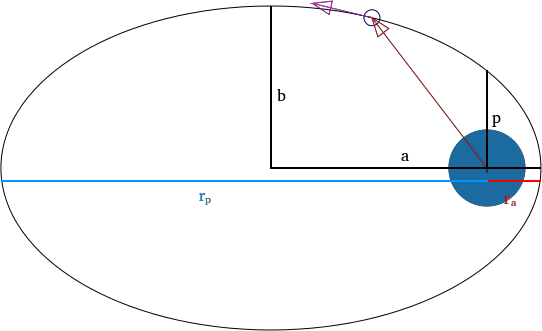
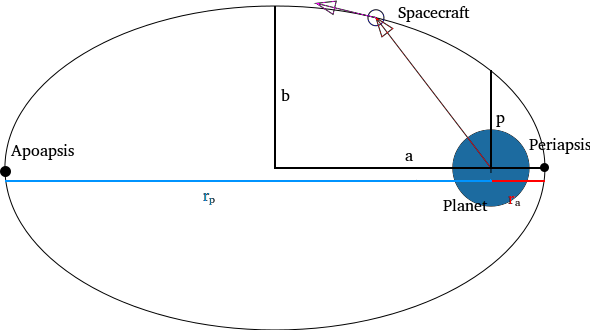
Editted

diff --git a/posts/016-orbital_mechanics_101_keplerian_orbits.md b/posts/016-orbital_mechanics_101_keplerian_orbits.md
@@ -3,16 +3,20 @@ published: no
 mathjax: yes
 orbitjs: yes
 
-Orbital mechanics. That thing that Kerbal Space Program does in the background when you put on the Mun. While it is [a lot of fun][ksp-blog-ref] to fool around with in games, how does it actually work? With this post, we will take a look at the basics on Keplerian orbits and gain some insights on how KSP and real life, really works.
+So at this point, you've at least heard of [Kerbal Space Program][ksp]. Kerbal Space Program is that realistic space sim game that your friends(or you!) have sinked hundreds of hours into, building space stations, satellites, and robots. It successfully made a highly mathematical field of study, orbital mechanics, accessible to almost anyone willing to sink a couple of hours into watching [Scott Manley][scott-manley] videos.
 
-The objective of this post is to develop a set of equations that allow us to
-calculate the position and velocity at any time during an orbit.
+[ksp]: https://kerbalspaceprogram.com/
+[scott-manley]: https://www.youtube.com/user/szyzyg/videos
 
-![To the Mun!](/static/img/ksp-moon/05-to-the-mun.png)
+But how does these things really work? Wouldn't it be nice to plan out the orbits you enter such that you can work out the amount of fuel you need for a mission rather than [trial and error][kspte]? After all, this is how NASA does it.
+
+[kspte]: https://www.youtube.com/watch?v=jG3x3yBVqVs
+
+However, to accomplish a complete mission analysis, things gets really complicated really fast. For this post, let's just learn the basics of what an orbit is, and how to predict the motion of a satellite at various orbital locations.
 
 [ksp-blog-ref]: /blog/kerbal_space_program_fun.html
 
-Note that if you are reading this on a RSS reader, you will not be served the in browser demo. Mobile may or may not have issues depending on your system. It is recommended that you open this page on a laptop/desktop.
+*Note that if you are reading this on a RSS reader, you will not be served the in browser demo. Mobile may or may not have issues depending on your system. It is recommended that you open this page on a laptop/desktop.*
 
 --------------------------------------------------------------------------------
 
@@ -28,7 +32,7 @@ Where \\( \vec{F} \\) is the force in its vector form, \\( G \\) is the gravitat
 
 [law-of-gravitation]: http://en.wikipedia.org/wiki/Newton%27s_law_of_universal_gravitation
 
-We can see that the force of gravity gets stronger as the masses of the two objects in question gets larger. It also gets weaker as the distance between the two objects grow larger, on the order of a quardratic.
+We can see that the force of gravity gets stronger as the masses of the two objects in question gets larger. It also gets weaker as the distance between the two objects grow larger, on the order of a quadratic.
 
 By assuming that our satellite has much smaller mass than the planet we are orbiting around, we can eliminate one of the mass terms. Combined with the gravitational constant, we have an expression for the **standard gravitational parameter**:
 
@@ -36,7 +40,7 @@ $$G m_1 m_2 \approx G m_1$$
 
 $$\mu = Gm_{\mathrm{planet}}$$
 
-This value will pop up everywhere in our calculations later. So make a note! For your reference, this parameter for Earth and Kerbin is respectfully:
+This value is specific for a celestial body and is constant. It is effectively a property of a planet, describing the "strength" of its gravitational field. This value will pop up everywhere in our calculations later. So make a note! For your reference, \\( \mu \\) for Earth and Kerbin (KSP) are:
 
 $$\mu_{\mathrm{Earth}} = 398600 \mathrm{\frac{km^3}{s^2}} $$
 
@@ -74,9 +78,9 @@ Orbital specific energy is defined as:
 
 $$ \epsilon = \frac{v^2}{2} - \frac{\mu}{r} $$
 
-Note that the values here does not have an arrow on top, meaning they are the absolute value of the vector. \\( v \\) corresponds to the speed and \\( r \\) corresponds the distance to the center of the planet.
+Note that the values here does not have an arrow on top, meaning they are the absolute value of the vector. \\( v \\) corresponds to the scalar speed and \\( r \\) corresponds the scalar distance from the spacecraft to the center of the planet.
 
-The last one is the **eccentricity vector**. The eccentricity vector is a vector point to the lowest point of the orbit, known as the **periapsis**. We will elaborate this more when we talk about the orbital characteristics.
+The last one is the **eccentricity vector**. The eccentricity vector is a vector that points to the lowest point in the orbit, known as the **periapsis**. We will elaborate this more when we talk about the orbital characteristics.
 
 The eccentricity vector is defined as:
 
@@ -86,12 +90,7 @@ $$ \vec{e} = \frac{\vec{v} \times \vec{h}}{\mu} - \frac{\vec{r}}{r} $$
 
 A spacecraft orbit in 2D is an ellipse with the focal point as the center of mass of the planet. An ellipse, can be defined with two parameters known as the **semi-major axis** (\\( a\\)) and the **eccentricity** (\\(e\\)).
 
-Semi-major axis is half the distance of the widest part of the orbit.
-Eccentricity, on the other hand, is the ratio between the distance from the
-center of the ellipse to the focal point and the semi major axis. This ratio
-varies between 0 and 1, with 0 being a perfectly circular orbit, and 1 being a
-parabolic orbit, or an orbit that will escape the gravity of this planet. For
-anything in between, this will result in an elliptical orbit.
+Semi-major axis is half the distance of the widest part of the orbit. Eccentricity describes how circular an orbit is and is the magnitude of the eccentricity vector. This ratio varies between 0 and 1, with 0 being a perfectly circular orbit, and 1 being a parabolic orbit, or an orbit that will escape the gravity of this planet. For anything in between, this will result in an elliptical orbit.
 
 <div id="adjustable_view" class="orbitalviewport">
   <canvas class="background" width="500" height="500"></canvas>
@@ -120,12 +119,16 @@ There are some additional parameters that will aid us with our calculations late
 - **minimum distance (periapsis)**: \\(r_p = \frac{p}{1-e} = a(1 + e) \\)
 - **maximum distance (apoapsis)**: \\(r_a = \frac{p}{1+e} = a(1 - e) \\)
 
-These can be derived from equations governing the basic operations of an ellipse
-and hence I won't go into how they are actually derived. The following diagram shows what they mean physically:
+These can be derived from equations governing the basic operations of an ellipse and hence I won't go into how they are actually derived. The following diagram shows what they mean physically:
 
 <p class="text-center">
 <img src="/static/img/orbit101/labeled-orbit.png" alt="labeled orbit" />
 </p>
+
+Earlier we discussed the the eccentricity vector is a vector that points from the center of the body to the periapsis. That can be seen in the diagram above.
+Additionally, it turns out the eccentricity of this orbit can also be computed from:
+
+$$ e = \frac{r_a - r_p}{r_a + r_p} $$
 
 
 ### Kepler's Laws ###
